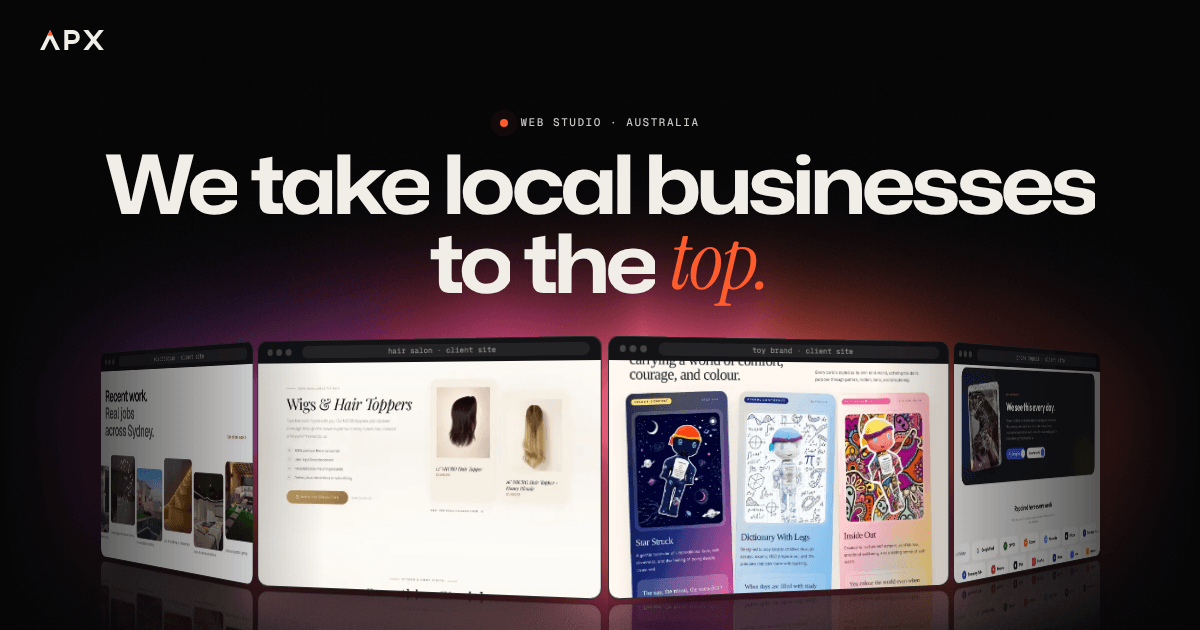
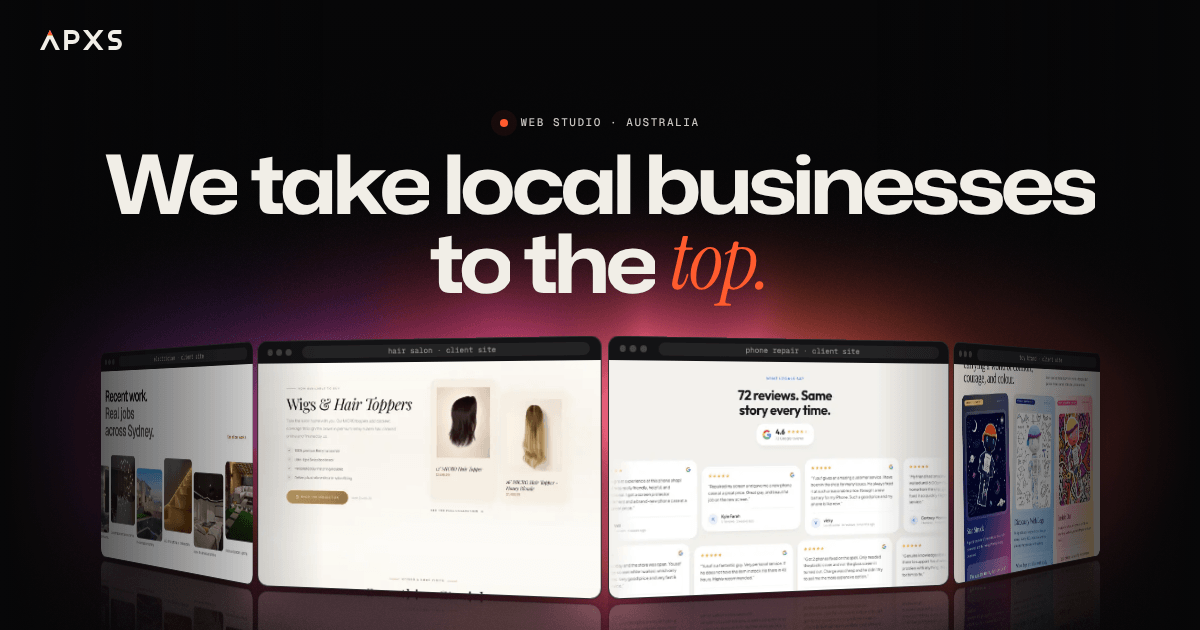
Rebrand to APXS
The name, wordmark (now with an S, in the header, footer and intro),
page titles, structured data, share image, email address and site
address (apxs.com.au) all follow the new name.

Claude-Session: https://claude.ai/code/session_015BjEeAb1jyUtxLGHPfPbyZ

Changed region(s): [[0.4933, 0.5429, 0.925, 1.0], [0.0617, 0.0603, 0.1233, 0.0905]]

diff --git a/src/components/Intro.tsx b/src/components/Intro.tsx
@@ -13,8 +13,8 @@ import { useIntro } from "./providers/IntroProvider";
 /**
  * The opening sequence.
  *
- * Four words (what APX does) roll past in 3D, like the faces of a drum, while a counter
- * climbs. Then the wordmark arrives as three solid letters that swing in and lock together,
+ * Four words (what APXS does) roll past in 3D, like the faces of a drum, while a counter
+ * climbs. Then the wordmark arrives as four solid letters that swing in and lock together,
  * the tip of the A catches light, and a band of colour runs through them (LogoAssemble.tsx).
  * Two curtains lift: ink first, with a band of colour behind it. The wordmark does not fade
  * out. It flies up into the header and becomes the logo (it shares a `layoutId` with the
@@ -159,7 +159,7 @@ export function Intro() {
             key="intro"
             className="intro-root pointer-events-auto fixed inset-0 z-50"
             role="status"
-            aria-label="Loading APX"
+            aria-label="Loading APXS"
             exit={reduced ? { opacity: 0 } : undefined}
             transition={{ duration: 0.6, ease: "easeOut" }}
           >
@@ -210,7 +210,7 @@ export function Intro() {
                   <div className="flex items-end justify-between">
                     <p className="label flex items-center gap-2.5 text-mute">
                       <span className="pulse-dot block h-1.5 w-1.5 rounded-full bg-ember" />
-                      APX <span className="text-faint">/</span> Web studio
+                      APXS <span className="text-faint">/</span> Web studio
                     </p>
                     <motion.span className="font-mono text-[clamp(1.5rem,3.2vw,2.5rem)] font-medium leading-none tabular-nums tracking-tight text-bone">
                       {digits}
@@ -235,11 +235,11 @@ export function Intro() {
       {showLogo && (
         <div className="intro-root pointer-events-none fixed inset-0 z-[65] grid place-items-center">
           {reduced ? (
-            <motion.div layoutId="apx-logo" className="w-[clamp(11rem,28vw,23rem)] text-bone">
+            <motion.div layoutId="apx-logo" className="w-[clamp(13rem,34vw,28rem)] text-bone">
               <Logo draw className="block h-auto w-full" />
             </motion.div>
           ) : (
-            <motion.div layoutId="apx-logo" className="logo-3d text-bone" role="img" aria-label="APX">
+            <motion.div layoutId="apx-logo" className="logo-3d text-bone" role="img" aria-label="APXS">
               <LogoAssemble />
             </motion.div>
           )}

diff --git a/src/app/globals.css b/src/app/globals.css
@@ -621,19 +621,19 @@ html.intro-live .intro-root {
 
 /* ---------------------------------------------------------------------------
    Intro: the wordmark
-   Three solid letters swing in, the tip of the A catches light, a band of colour
+   Four solid letters swing in, the tip of the A catches light, a band of colour
    runs through them, and the depth folds away (see LogoAssemble.tsx). Times are
    from the moment the wordmark appears; Intro.tsx waits for the same total.
    --------------------------------------------------------------------------- */
 
 .logo-3d {
   /* The width of the wordmark. Everything else is a share of it. */
-  --lw: clamp(12.5rem, 32vw, 25rem);
+  --lw: clamp(15rem, 38vw, 30rem);
   /* One layer of a letter's depth. */
   --ld: calc(var(--lw) * 0.0046);
   position: relative;
   width: var(--lw);
-  height: calc(var(--lw) * 56 / 179);
+  height: calc(var(--lw) * 56 / 231);
   perspective: calc(var(--lw) * 2.3);
 }
 /* The whole wordmark sways once as the letters land, which is what shows their depth. */
@@ -652,7 +652,7 @@ html.intro-live .intro-root {
   /* Turns about the middle of its own depth. */
   transform-origin: 50% 50% calc(var(--ld) * -5);
   animation: logo-swing 1s cubic-bezier(0.33, 1, 0.68, 1) both;
-  animation-delay: calc(var(--i) * 110ms + 60ms);
+  animation-delay: calc(var(--i) * 85ms + 60ms);
   will-change: transform;
 }
 .logo-slab,
@@ -673,14 +673,14 @@ html.intro-live .intro-root {
    itself would press its depth flat for as long as the fade lasted. */
 .logo-face {
   animation: logo-appear 0.16s ease-out both;
-  animation-delay: calc(var(--i) * 110ms + 60ms);
+  animation-delay: calc(var(--i) * 85ms + 60ms);
 }
 .logo-slab {
   transform: translateZ(calc(var(--ld) * var(--k) * -1));
   animation:
     logo-appear 0.16s ease-out both,
     logo-fold 0.26s ease-in both;
-  animation-delay: calc(var(--i) * 110ms + 60ms), 1.54s;
+  animation-delay: calc(var(--i) * 85ms + 60ms), 1.54s;
 }
 /* The ember tip of the A: unlit until the letters have landed. */
 .logo-tip {

diff --git a/src/components/Logo.tsx b/src/components/Logo.tsx
@@ -4,7 +4,7 @@ import { motion, type Transition } from "framer-motion";
 import { useId } from "react";
 
 /**
- * The APX wordmark.
+ * The APXS wordmark.
  *
  * Each letter is a single stroked path clipped to a flat cap-height and baseline,
  * so the same geometry can be drawn on (the intro) or shown solid (everywhere else).
@@ -19,6 +19,8 @@ export const LETTERS = [
   // X (two strokes)
   "M121.9 -8 L178.1 64",
   "M178.1 -8 L121.9 64",
+  // S
+  "M229 5.5 H208 A11.25 11.25 0 0 0 208 28 H214 A11.25 11.25 0 0 1 214 50.5 H193",
 ];
 
 export const STROKE = 11;
@@ -34,7 +36,7 @@ type LogoProps = {
   title?: string;
 };
 
-export function Logo({ className, draw = false, delay = 0, play = true, title = "APX" }: LogoProps) {
+export function Logo({ className, draw = false, delay = 0, play = true, title = "APXS" }: LogoProps) {
   const uid = useId().replace(/:/g, "");
   const boxId = `apx-box-${uid}`;
   const tipId = `apx-tip-${uid}`;
@@ -46,7 +48,7 @@ export function Logo({ className, draw = false, delay = 0, play = true, title = 
 
   return (
     <svg
-      viewBox="0 0 179 56"
+      viewBox="0 0 231 56"
       className={className}
       data-draw={draw ? "" : undefined}
       role="img"
@@ -56,7 +58,7 @@ export function Logo({ className, draw = false, delay = 0, play = true, title = 
     >
       <defs>
         <clipPath id={boxId}>
-          <rect x="0" y="0" width="179" height="56" />
+          <rect x="0" y="0" width="231" height="56" />
         </clipPath>
         <clipPath id={tipId}>
           <rect x="0" y="0" width="60" height="15.5" />

diff --git a/src/lib/site.ts b/src/lib/site.ts
@@ -18,11 +18,11 @@ type SiteConfig = {
 };
 
 export const site: SiteConfig = {
-  name: "APX",
-  legalName: "APX",
-  url: "https://apx.com.au",
+  name: "APXS",
+  legalName: "APXS",
+  url: "https://apxs.com.au",
   /** Where enquiries go. Used by the contact form and every "email us" link. */
-  email: "hello@apx.com.au",
+  email: "hello@apxs.com.au",
   /** Optional. Leave blank to hide. Use full international format, e.g. "+61 400 000 000". */
   phone: "",
   /** Optional. Just the handle, without the @. Leave blank to hide. */
@@ -33,7 +33,7 @@ export const site: SiteConfig = {
   timeZone: "Australia/Sydney",
   tagline: "We take local businesses to the top.",
   description:
-    "APX builds fast, good-looking websites for Australian businesses, then gets them found on Google, runs the Instagram and builds custom tools like SMS senders. One team, pulling in one direction.",
+    "APXS builds fast, good-looking websites for Australian businesses, then gets them found on Google, runs the Instagram and builds custom tools like SMS senders. One team, pulling in one direction.",
   shortDescription: "Websites, SEO, Instagram and custom tools for Australian businesses.",
 };
 

diff --git a/src/components/Nav.tsx b/src/components/Nav.tsx
@@ -107,7 +107,7 @@ export function Nav() {
           <a
             href={home ? "#top" : "/"}
             aria-label={`${site.name} home`}
-            className="relative block h-[18px] w-[58px] text-bone md:h-5 md:w-16"
+            className="relative block h-[18px] w-[74px] text-bone md:h-5 md:w-[82px]"
 
             onClick={() => setOpen(false)}
           >
@@ -123,7 +123,7 @@ export function Nav() {
             {/* The logo normally arrives from the intro. Without scripts there is no intro, so show it outright. */}
             <noscript>
               <svg
-                viewBox="0 0 179 56"
+                viewBox="0 0 231 56"
                 className="absolute inset-0 h-full w-full"
                 fill="none"
                 overflow="hidden"
@@ -134,6 +134,7 @@ export function Nav() {
                   <path d="M73.5 64 V5.5 H92 A14 14 0 0 1 92 33.5 H73.5" />
                   <path d="M121.9 -8 L178.1 64" />
                   <path d="M178.1 -8 L121.9 64" />
+                  <path d="M229 5.5 H208 A11.25 11.25 0 0 0 208 28 H214 A11.25 11.25 0 0 1 214 50.5 H193" />
                 </g>
               </svg>
             </noscript>

diff --git a/src/components/LogoAssemble.tsx b/src/components/LogoAssemble.tsx
@@ -1,7 +1,7 @@
 import { LETTERS, STROKE } from "./Logo";
 
 /**
- * The wordmark as the intro's closing piece: three solid letters that swing in out of the
+ * The wordmark as the intro's closing piece: four solid letters that swing in out of the
  * dark, one after another, and lock together. As the last one lands the tip of the A
  * catches light (a ring, a few sparks, a glow behind), and a band of colour runs through
  * the letters. Then the depth folds away, leaving the flat wordmark that flies to the header.
@@ -13,7 +13,7 @@ import { LETTERS, STROKE } from "./Logo";
  */
 
 /** The wordmark's box, in its own units (see Logo.tsx). */
-const WIDTH = 179;
+const WIDTH = 231;
 const HEIGHT = 56;
 
 /** Where each letter sits in that box. */
@@ -21,6 +21,7 @@ const GLYPHS = [
   { name: "a", x: 0, w: 56, paths: [LETTERS[0]] },
   { name: "p", x: 68, w: 43.5, paths: [LETTERS[1]] },
   { name: "x", x: 121.16, w: 57.68, paths: [LETTERS[2], LETTERS[3]] },
+  { name: "s", x: 189, w: 42, paths: [LETTERS[4]] },
 ];
 
 /** The tip of the A: its position in the box, and how far down the ember runs. */

diff --git a/src/components/sections/Hero.tsx b/src/components/sections/Hero.tsx
@@ -212,7 +212,7 @@ export function Hero() {
               className="mt-5 max-w-[37rem] md:mt-[clamp(1rem,2.6svh,1.75rem)] [@media(max-height:659px)]:hidden md:[@media(max-height:719px)]:hidden"
             >
               <p className="text-[1.0625rem] leading-relaxed text-bone-dim md:text-lg">
-                APX builds websites that win work, gets them found on Google, runs the Instagram, and builds
+                APXS builds websites that win work, gets them found on Google, runs the Instagram, and builds
                 the tools that keep customers coming back.
               </p>
             </Reveal>

diff --git a/src/components/sections/Ticker.tsx b/src/components/sections/Ticker.tsx
@@ -8,7 +8,7 @@ const ROWS = [
   { words: [...WORDS.slice(2), ...WORDS.slice(0, 2)], seconds: 37, reverse: true, solid: 1 },
 ];
 
-/** The four things APX does, on a loop, between the hero and the services. */
+/** The four things APXS does, on a loop, between the hero and the services. */
 export function Ticker() {
   return (
     <div className="border-b border-white/[0.07] py-6 md:py-9">

diff --git a/src/app/layout.tsx b/src/app/layout.tsx
@@ -50,7 +50,7 @@ export const metadata: Metadata = {
     "social media management",
     "custom business software",
     "SMS sender",
-    "APX",
+    "APXS",
   ],
   authors: [{ name: site.name, url: site.url }],
   creator: site.name,

diff --git a/README.md b/README.md
@@ -1,8 +1,8 @@
-# APX
+# APXS
 
-The website for APX: websites, SEO, Instagram and custom tools for Australian businesses.
+The website for APXS: websites, SEO, Instagram and custom tools for Australian businesses.
 
-One long page, built to show the kind of work APX does: a Framer Motion intro, a hero where
+One long page, built to show the kind of work APXS does: a Framer Motion intro, a hero where
 real client sites stand in a slowly turning 3D ring over a flowing glow, animated demos of
 each service, and a portfolio of real client sites (only one of them shown by name).
 
@@ -11,11 +11,11 @@ each service, and a portfolio of real client sites (only one of them shown by na
 The site is ready to deploy, but a few details were filled in as placeholders. They all
 live in `src/lib/site.ts`:
 
-- [ ] **`email`**: currently `hello@apx.com.au`. Every "email us" link and the contact form
+- [ ] **`email`**: currently `hello@apxs.com.au`. Every "email us" link and the contact form
       send to this address, so it must be a real inbox.
 - [ ] **`phone`** and **`instagram`**: blank, which hides them. Add them if you want them shown.
 - [ ] **`location`** and **`timeZone`**: currently `Australia` and Sydney time (the live clock).
-- [ ] **`url`**: currently `https://apx.com.au`. Change it if the site will live elsewhere.
+- [ ] **`url`**: currently `https://apxs.com.au`. Change it if the site will live elsewhere.
 - [ ] Optional: add a `RESEND_API_KEY` so enquiries arrive in your inbox directly
       (see [Contact form](#contact-form)).
 
@@ -87,7 +87,7 @@ losing the message. A hidden honeypot field filters out basic bots.
 ## Deploy
 
 It is a standard Next.js app. On Vercel: import the repository and deploy; no configuration
-is needed. Point `apx.com.au` at the project, and if the domain is different, update `url`
+is needed. Point `apxs.com.au` at the project, and if the domain is different, update `url`
 in `src/lib/site.ts` so the canonical URL, sitemap and share image follow.
 
 ## How it is put together
@@ -99,7 +99,7 @@ in `src/lib/site.ts` so the canonical URL, sitemap and share image follow.
   The curtain is part of the page's HTML, so it is on screen from the first paint, before
   any script has loaded. The wordmark shares a `layoutId` with the header logo, which is
   how it flies into place.
-- `src/components/LogoAssemble.tsx`: the wordmark's entrance in that sequence. Three solid
+- `src/components/LogoAssemble.tsx`: the wordmark's entrance in that sequence. Four solid
   letters swing in and lock together, the tip of the A catches light, and a band of colour
   runs through them. It is all CSS keyframes (in `globals.css`, under "Intro: the
   wordmark"), so it plays smoothly however busy the page is while it loads.
